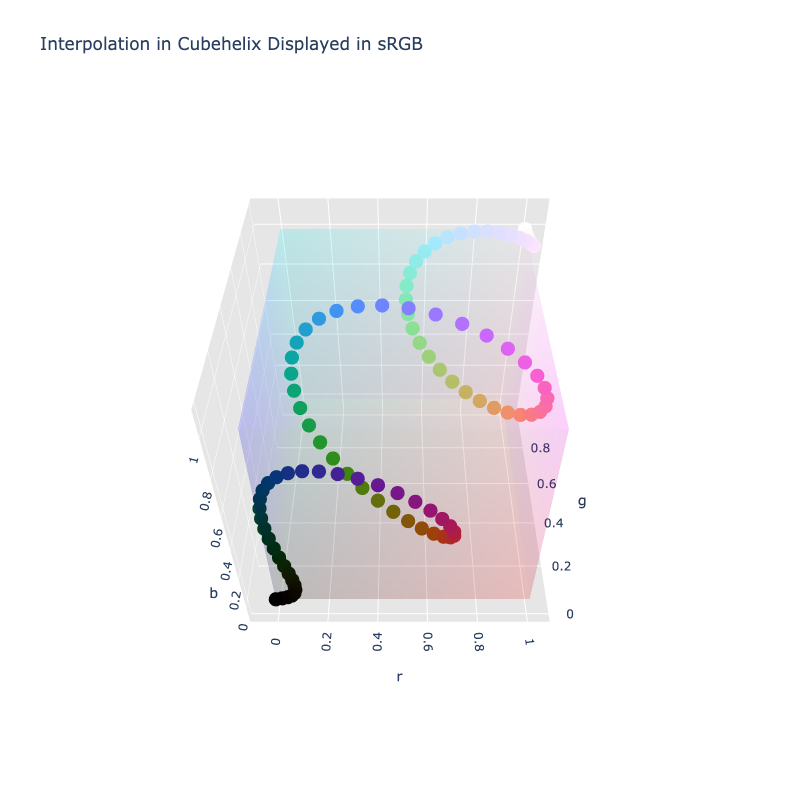
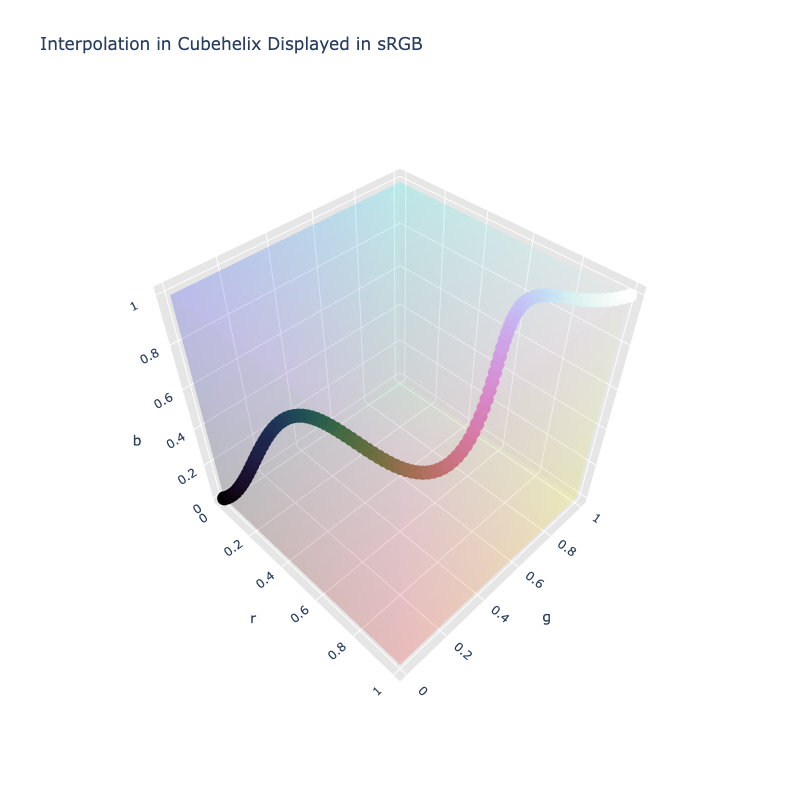
Describe how to create the default cubehelix scheme and others
Fill in the gaps between the cubehelix paper and instructions on how to
generate a color scheme and generating the same color schemes via
inteprolation with the cubehelix color space.

Changed region(s): [[0.1875, 0.2188, 0.8125, 0.8438], [0.4062, 0.0312, 0.5312, 0.0625], [0.4375, 0.6875, 0.4688, 0.7188]]

diff --git a/docs/src/markdown/colors/cubehelix.md b/docs/src/markdown/colors/cubehelix.md
@@ -19,8 +19,9 @@ Name | Range^\*^
 `s`  | [0, 4.614]
 `l`  | [0, 1]
 
-^\*^ The maximum saturation represents how high saturation can go, not that _all_ colors with that saturation will be
-valid. As seen in the 3D rendering, while the coordinates are cylindrical, the shape of the space is not a cylinder.
+^\*^ The maximum saturation represents how high saturation can go within the sRGB gamut, not that _all_ colors with that
+saturation will be valid in the sRGB gamut. As seen in the 3D rendering, while the coordinates are cylindrical, the
+shape of the space within a given gamut may not be a perfect cylinder.
 ////
 
 ![Cubehelix](../images/cubehelix-3d.png)
@@ -28,81 +29,28 @@ valid. As seen in the 3D rendering, while the coordinates are cylindrical, the s
 The sRGB gamut represented within the Cubehelix color space.
 ////
 
-Cubehelix is a color scheme created by Dave Green. It was originally created for the display of astronomical intensity
-images. It is not really one color scheme, but a method to generate various "cubehelix" color schemes. The name comes
-from the way the colors spiral through the sRGB color space.
+Cubehelix is a color schemes created by Dave Green. It was originally created for the display of astronomical intensity
+images. While many may think of the cubehelix scheme as the default one described in the original paper, it is not
+really one color scheme, but a method to generate various "cubehelix" color schemes. The name comes from the way the
+color scheme spirals through the sRGB color space.
 
-Mike Bostock of [Observable](https://observablehq.com/) and [D3](https://d3js.org/) fame along with Jason Davies took
+Mike Bostock of [Observable](https://observablehq.com/) and [D3](https://d3js.org/) fame, along with Jason Davies, took
 the color scheme and created a cylindrical color space with it. This is the color space that is implemented in
-ColorAide.
-
-Cubehelix color schemes can be easily generated by interpolating in the color space.
+ColorAide and can be used directly to generate various cubehelix color schemes.
 
 ```py play
-c1 = Color('cubehelix', [0, 1, 0])
-c2 = Color('cubehelix', [360, 1, 1])
+c1 = Color('cubehelix', [300, 0.5, 0])
+c2 = Color('cubehelix', [-240, 0.5, 1])
 Color.discrete([c1, c2], steps=16, space='cubehelix', hue='specified')
 Color.interpolate([c1, c2], space='cubehelix', hue='specified')
-```
-
-You can change the scheme by changing the start and end angle.
-
-```py play
-c1 = Color('cubehelix', [0 + 180, 1, 0])
-c2 = Color('cubehelix', [360 + 180, 1, 1])
-Color.discrete([c1, c2], steps=16, space='cubehelix', hue='specified')
-Color.interpolate([c1, c2], space='cubehelix', hue='specified')
-```
-
-You can increase the rotations by setting hue interpolation to `specified` and extending the angle difference to a
-distance greater than 360.
-
-```py play
-c1 = Color('cubehelix', [0, 1, 0])
-c2 = Color('cubehelix', [360 * 3, 1, 1])
-Color.discrete([c1, c2], steps=16, space='cubehelix', hue='specified')
-Color.interpolate([c1, c2], space='cubehelix', hue='specified')
-```
-
-You can even reverse the rotation by utilizing a negative difference in hue.
-
-```py play
-c1 = Color('cubehelix', [0, 1, 0])
-c2 = Color('cubehelix', [-360, 1, 1])
-Color.discrete([c1, c2], steps=16, space='cubehelix', hue='specified')
-Color.interpolate([c1, c2], steps=16, space='cubehelix', hue='specified')
-```
-
-To adjust gamma, simply apply a gamma easing to lightness.
-
-```py play
-def ease_gamma(y=1.0):
-    """Ease gamma."""
-
-    return lambda t: t ** y
-
-gamma = ease_gamma(0.2)
-
-c1 = Color('cubehelix', [0, 1, 0])
-c2 = Color('cubehelix', [-360, 1, 1])
-Color.discrete(
-    [c1, c2],
-    steps=16,
-    space='cubehelix',
-    hue='specified',
-    progress={'l': gamma}
-)
-Color.interpolate(
-    [c1, c2],
-    space='cubehelix',
-    hue='specified',
-    progress={'l': gamma}
-)
 ```
 
 Viewing the interpolation in 3D, we can see the spiraling of colors that gave the color scheme the name Cubehelix.
 
 ![Cubehelix Interpolation](../images/cubehelix-interpolation.png)
+/// figure-caption
+The default cubehelix color scheme in 3D.
+///
 
 [Learn more](https://arxiv.org/pdf/1108.5083.pdf).
 ///
@@ -141,4 +89,135 @@ from coloraide.spaces.cubehelix import Cubehelix
 class Color(Base): ...
 
 Color.register(Cubehelix())
+```
+
+## Generating Color Schemes
+
+Cubehelix color schemes can be easily generated by interpolating within the cubehelix color space. Below is the default
+color scheme as described in the original paper.
+
+The original paper described an algorithm for generating cubehelix color schemes and highlighted four parameters that
+are used to control the output. The cubehelix color space incorporates this logic within itself to create a color space
+and can be used directly to generate the same color schemes via simple interpolation. The exact same parameters can be
+applied to the interpolation process (with some minor translations) to give the same output.
+
+To explain how the color schemes can programmatically be generated, first we'll cover the four parameters and how they
+relate to our cylindrical color space and the interpolation process. Lastly, we'll show the logic with them all working
+together to create color schemes.
+
+It should be noted that we assume interpolation is being performed with the `specified` hue logic as it is needed to
+handle hue rotations that are greater 360˚.
+
+//// settings | Cubehelix Scheme Options
+/// define
+start
+
+-   The 'start' color. This is the direction of the predominant color deviation from black at the start of the color
+    scheme with R=1, G=2, B=3, etc. In the context of the Cubehelix cylindrical space, this is translated to an actual
+    hue as shown below.
+
+    $$
+    start\_hue = ((start - 1) * 120) \bmod 360
+    $$
+///
+
+/// define
+rotation
+
+-   Number of rotations through the hues from the start (i.e. black) to the end (i.e. white). In the context of the
+    Cubehelix cylindrical space, this is essentially used to define the ending hue within a `specified` interpolation.
+    Assuming the starting hue as `start_hue`, rotation is applied as shown below.
+
+    $$
+    end\_hue = start\_hue + (360 * rotation)
+    $$
+///
+
+/// define
+hue
+
+-   Named "hue" in the paper, this option actually controls how saturated the color of all hues are. If this parameter
+    is zero, the color palette is purely grayscale. The "hue" parameter is applied to saturation component of both the
+    start and end color after dividing it by 2.
+
+    $$
+    saturation = hue / 2
+    $$
+///
+
+/// define
+gamma
+
+-   A 'factor' that can be used to emphasize low or high intensity values. Essentially places an easing function on the
+    lightness. If `t` is the progress of the interpolation between the start and end color, and gamma is `y`, then an
+    easing function can be applied to interpolation progress of the lightness component as shown below.
+
+    $$
+    t\_new = t^y
+    $$
+///
+////
+
+With a clear understanding of the four parameters, we can then define a function that accepts the parameters and
+constructs an interpolation that yields the desired color scheme.
+
+```py play
+from coloraide import algebra as alg
+
+def cubehelix_scheme(start, rotation, hue, gamma, out_space='srgb', domain=(0, 1)):
+    """Generate a Cubehelix scheme."""
+
+    start_hue = ((start - 1) * 120) % 360
+    end_hue = start_hue + (360 * rotation)
+    saturation = hue / 2
+    begin = Color('cubehelix', [start_hue, saturation, 0])
+    end =  Color('cubehelix', [end_hue, saturation, 1])
+    return Color.interpolate(
+        [begin, end],
+        space='cubehelix',
+        hue='specified',
+        progress={'l': lambda t, y=gamma: t ** y} if gamma != 1 else None,
+        domain=domain,
+        out_space=out_space
+    )
+
+scheme = cubehelix_scheme(0.5, -1.5, 1, 1)
+Steps([scheme(i).clip('srgb') for i in alg.linspace(0, 1, 100, endpoint=True)])
+scheme = cubehelix_scheme(0.5, -1.5, 1.5, 1)
+Steps([scheme(i).clip('srgb') for i in alg.linspace(0, 1, 100, endpoint=True)])
+scheme = cubehelix_scheme(0.5, -1, 1, 1)
+Steps([scheme(i).clip('srgb') for i in alg.linspace(0, 1, 100, endpoint=True)])
+scheme = cubehelix_scheme(1.5, -1.5, 1, 1)
+Steps([scheme(i).clip('srgb') for i in alg.linspace(0, 1, 100, endpoint=True)])
+```
+
+While this shows a direct translation of the paper's algorithm and parameters to the cubehelix color space via
+interpolation, a more intuitive approach may be to simply accept a starting hue, number of rotations, saturation,
+and gamma.
+
+```py play
+from coloraide import algebra as alg
+
+def cubehelix_scheme(start_hue, rotation, saturation, gamma, out_space='srgb', domain=(0, 1)):
+    """Generate a Cubehelix scheme."""
+
+    begin = Color('cubehelix', [start_hue, saturation, 0])
+    end =  Color('cubehelix', [start_hue + (360 * rotation), saturation, 1])
+    return Color.interpolate(
+        [begin, end],
+        space='cubehelix',
+        hue='specified',
+        progress={'l': lambda t, y=gamma: t ** y} if gamma != 1 else None,
+        domain=domain,
+        out_space=out_space
+    )
+
+scheme = cubehelix_scheme(300, -1.5, 0.5, 1)
+Steps([scheme(i).clip('srgb') for i in alg.linspace(0, 1, 100, endpoint=True)])
+scheme = cubehelix_scheme(300, -1.5, 0.75, 1)
+Steps([scheme(i).clip('srgb') for i in alg.linspace(0, 1, 100, endpoint=True)])
+scheme = cubehelix_scheme(300, -1, 0.5, 1)
+Steps([scheme(i).clip('srgb') for i in alg.linspace(0, 1, 100, endpoint=True)])
+scheme = cubehelix_scheme(60, -1.5, 0.5, 1)
+Steps([scheme(i).clip('srgb') for i in alg.linspace(0, 1, 100, endpoint=True)])
 ```
